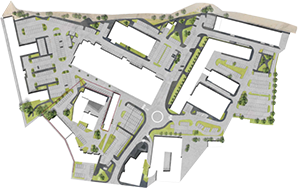
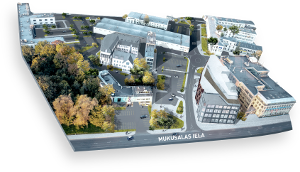
Replaced buildings map with a new one

diff --git a/source/stylesheets/components/_bundle-building.sass b/source/stylesheets/components/_bundle-building.sass
@@ -21,11 +21,8 @@
 =article-header-building_map--tablet
   float: right
   margin-top: 40px
-  width: 48.5%
-  height: 250px
-  .tips
-    width: 350px
-    height: 221px
+  margin-left: -5%
+  width: 55%
   a.tip
     font-size: 1.125em
     &:before
@@ -151,16 +148,17 @@
   .tips
     position: relative
     margin: 0 auto
-    width: 298px
-    height: 188px
     .background
       +scut-absolute(0 0 0 0)
       background-size: cover
+  .tips.desktop--big
+    display: none
   a.tip
+    $border-color: darken($c-background--m, 2.5%)
     +scut-absolute(0 n n 0)
     margin-left: -22px
     margin-top: -34px
-    border: 2px solid darken($c-background--m, 2.5%)
+    border: 2px solid $border-color
     background: $c-background
     padding: .375em .55em .375em .65em
     text-transform: uppercase
@@ -191,6 +189,12 @@
         left: $width/2 solid transparent
         right: $width/2 solid transparent
         top: $height solid $c-background
+    &:hover
+      background: $border-color
+      text-decoration: none
+      color: $c-base--i
+      &:after
+        border-top-color: $border-color
   .pointer
     +scut-absolute(n n 48px -50px)
     background: $c-background--h
@@ -212,12 +216,12 @@
       cursor: pointer
   +respond-to(tablet)
     +article-header-building_map--tablet
-  +respond-to(desktop)
+  +breakpoint(em(1400px))
+    .tips.desktop
+      display: none !important
+    .tips.desktop--big
+      display: block
     margin-top: 5px
-    height: 450px
-    .tips
-      width: 688px
-      height: 435px
 
 %section-image
   position: relative

diff --git a/source/stylesheets/foundation/_config.sass b/source/stylesheets/foundation/_config.sass
@@ -75,7 +75,7 @@ $b-maxWidth--frame: em(1000px)
 
 $b-b:   em(768px)  // tablets+
 $b-b-d: em(1025px) // desktops+
-$breakpoints: (mobile-only: 0 ($b-b - 1), tablet-only: $b-b ($b-b-d - 1), tablet: $b-b, desktop: $b-b-d)
+$breakpoints: (mobile-only: 0 ($b-b - em(1px)), tablet-only: $b-b ($b-b-d - em(1px)), tablet: $b-b, desktop: $b-b-d)
 
 // ----- Padding ----- //
 

diff --git a/source/stylesheets/spaces.css.sass b/source/stylesheets/spaces.css.sass
@@ -520,8 +520,10 @@ $item-inner-height: $item-height - $item-padding*2 - 2px // 2px - border
   +respond-to(tablet)
     .text
       float: left
-      width: 50%
-      margin-right: 0
+      margin-right: -3.5%
+      width: 53.5%
+      h1
+        max-width: 90%
       p
         line-height: 1.7
   +respond-to(desktop)
